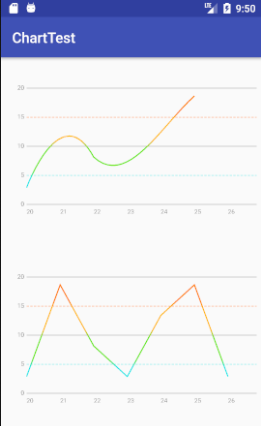
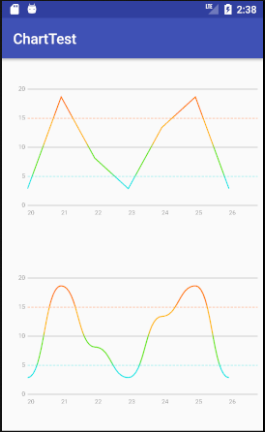
优化曲线图，更新jpg

diff --git a/app/src/main/java/com/example/nerd/charttest/CurveChart2.java b/app/src/main/java/com/example/nerd/charttest/CurveChart2.java
@@ -94,9 +94,10 @@ public class CurveChart2 extends View {
         drawYT(canvas);
         turnPoint();
 //        drawCurve(canvas);
-        drawFoldLine(canvas);
-
+//        drawFoldLine(canvas);
+        drawScrollLine(canvas);
     }
+
 
     private void turnPoint() {
         float zoomY = AxisYRect.top / 5 + txtPaint.getTextSize() / 4;
@@ -130,6 +131,41 @@ public class CurveChart2 extends View {
         curPaint.setShader(mLinearGradient);
         canvas.drawPath(path, curPaint);
 
+    }
+
+    private void drawScrollLine(Canvas canvas) {
+        LinearGradient mLinearGradient = new LinearGradient(
+                0, 0, 0, AxisYRect.top,
+                new int[]{
+                        Color.parseColor("#ff7f00"),
+                        Color.parseColor("#ff7f00"),
+                        Color.parseColor("#ffb90f"),
+                        Color.parseColor("#ffb90f"),
+                        Color.parseColor("#6BE61A"),
+                        Color.parseColor("#6BE61A"),
+                        Color.parseColor("#1AE6E6"),
+                        Color.parseColor("#1AE6E6")},
+                new float[]{0.175f, 0.375f, 0.425f, 0.575f, 0.625f, 0.775f, 0.825f, 1f},
+                Shader.TileMode.CLAMP);
+        curPaint.setShader(mLinearGradient);
+        PointF startp;
+        PointF endp;
+        for (int i = 0; i < points.size() - 1; i++) {
+            startp = points.get(i);
+            endp = points.get(i + 1);
+            float wt = (startp.x + endp.x) / 2;
+            PointF p3 = new PointF();
+            PointF p4 = new PointF();
+            p3.y = startp.y;
+            p3.x = wt;
+            p4.y = endp.y;
+            p4.x = wt;
+
+            Path path = new Path();
+            path.moveTo(startp.x, startp.y);
+            path.cubicTo(p3.x, p3.y, p4.x, p4.y, endp.x, endp.y);
+            canvas.drawPath(path, curPaint);
+        }
     }
 
     private void drawFoldLine(Canvas canvas) {

diff --git a/app/src/main/java/com/example/nerd/charttest/CurveChart.java b/app/src/main/java/com/example/nerd/charttest/CurveChart.java
@@ -93,8 +93,8 @@ public class CurveChart extends View {
         drawXT(canvas);
         drawYT(canvas);
         turnPoint();
-        drawCurve(canvas);
-//        drawFoldLine(canvas);
+//        drawCurve(canvas);
+        drawFoldLine(canvas);
 
     }
 
